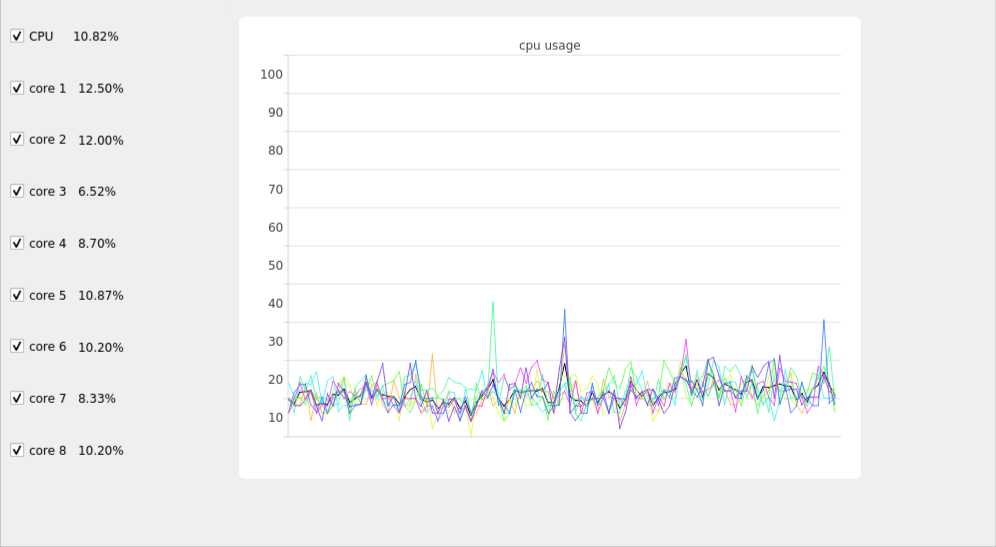
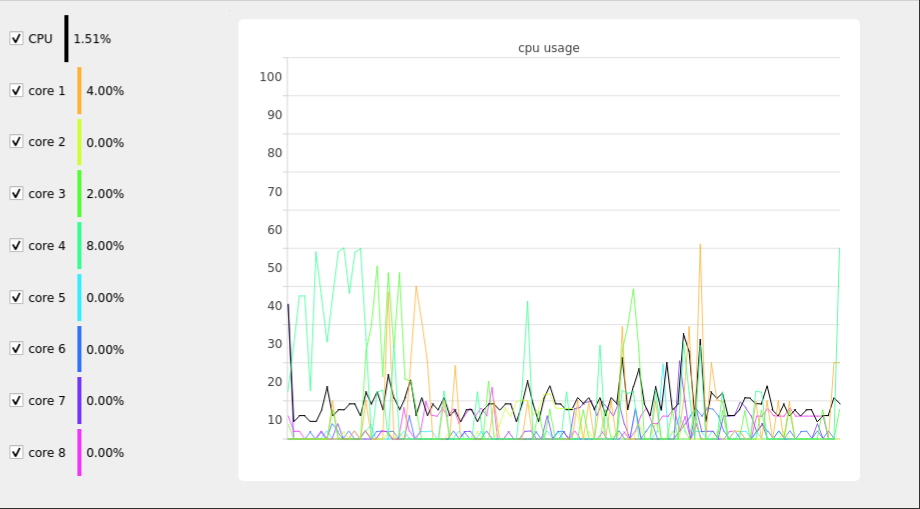
fixed typo added color to checkboxes

diff --git a/mainwindow.cpp b/mainwindow.cpp
@@ -63,13 +63,21 @@ MainWindow::MainWindow(QWidget *parent)
         QCheckBox *button = new QCheckBox (this);
         //QPushButton *button = new QPushButton(this);
 
-        button->setText( "core" + QString::number(i));
+
         button->setChecked(true);
 
 
 
+
+
+
         QLabel *lable = new QLabel();
+        //do this or the first second looks wierdly drawn
         lable->setText("");
+
+        QLabel *color_dot = new QLabel();
+        //do this or the first second looks wierdly drawn
+        color_dot->setText(" ");
 
 
 
@@ -78,6 +86,7 @@ MainWindow::MainWindow(QWidget *parent)
         hbox->setAlignment(Qt::AlignLeft);
 
         hbox->addWidget(button);
+        hbox->addWidget(color_dot);
         hbox->addWidget(lable);
 
         ui->vertical->addLayout(hbox);
@@ -85,12 +94,17 @@ MainWindow::MainWindow(QWidget *parent)
         //remember
         if(i==0){
             //Special for CPU
-             button->setText("CPU  ");
+             button->setText("CPU");
+
+             color_dot->setStyleSheet(QString("QLabel{ background-color: black; border: none }"));
+
             core_series.push_back(std::make_pair(new Core(0,QColor().black(),chart,axisX,axisY,button,this),lable));
         }
         else{
             //normal cores
             button->setText("core " + QString::number(i));
+            color_dot->setStyleSheet(QString("QLabel{ background-color: %1; border: none }").arg(QColor().fromHsv(hue_counter,204,255,200).name()));
+
             core_series.push_back(std::make_pair( new Core(i,QColor().fromHsv(hue_counter,204,255,200),chart,axisX,axisY,button,this),lable));
         }
 
